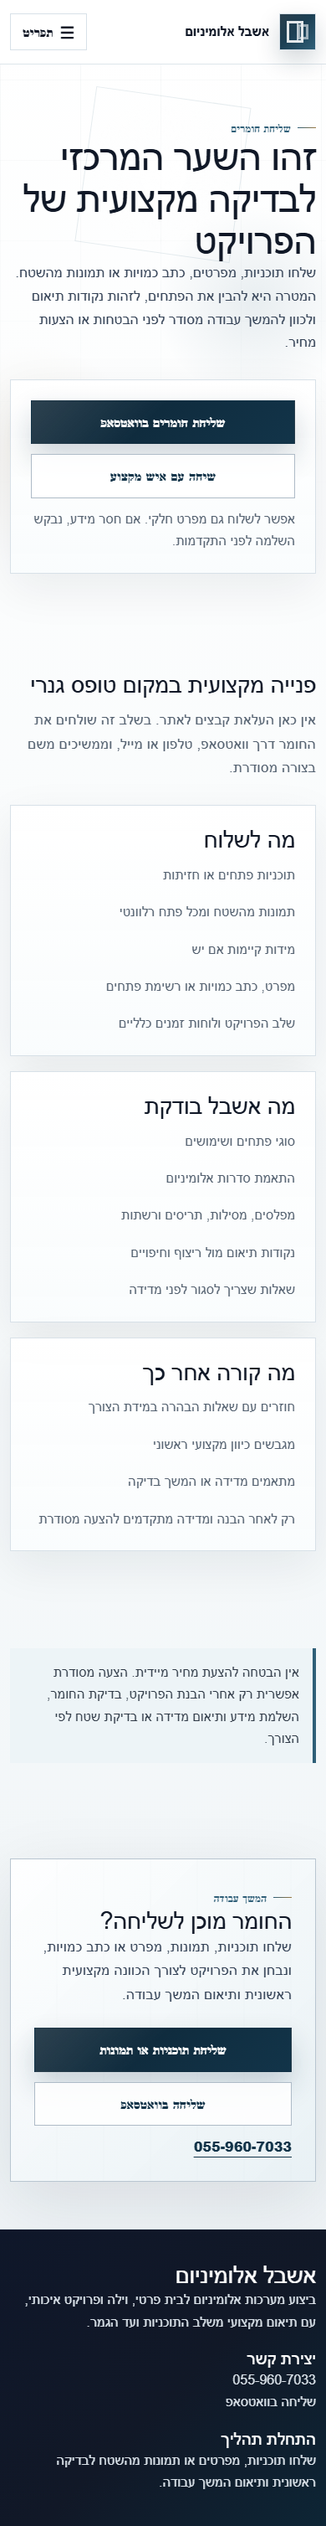
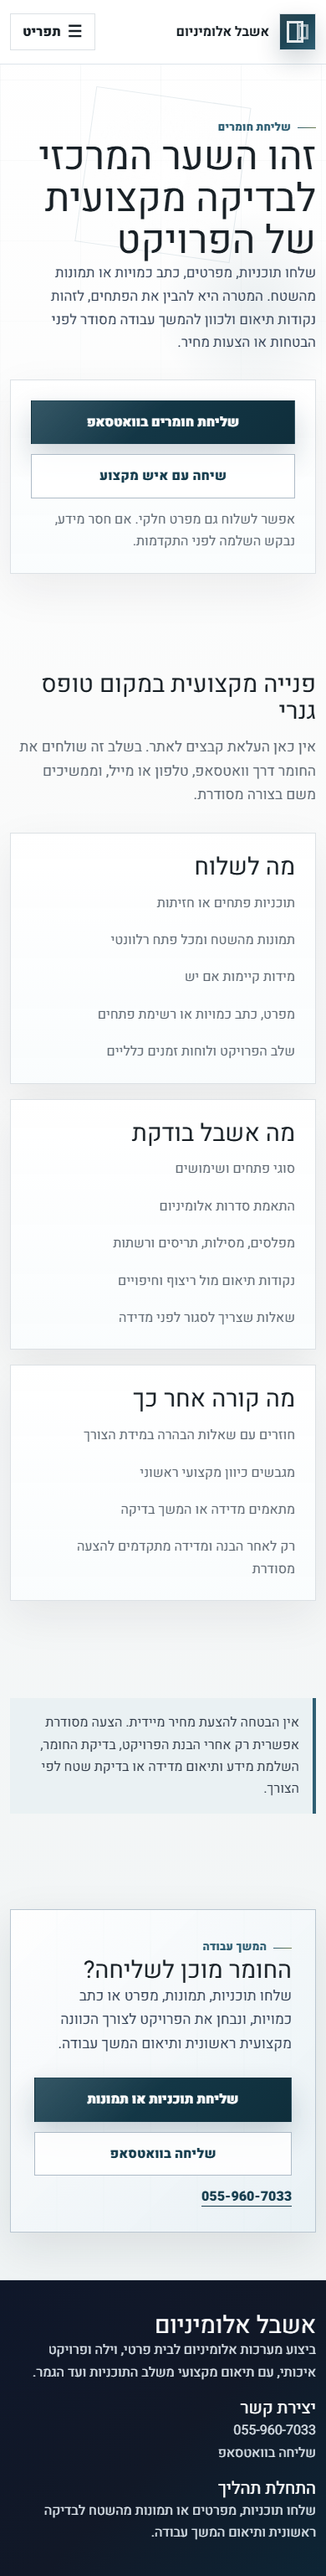
Polish product preview visuals

diff --git a/src/app/products/products.css b/src/app/products/products.css
@@ -4,16 +4,17 @@
 
 .products-page .section-shell:first-of-type {
   background:
-    radial-gradient(circle at 18% 12%, rgb(184 208 222 / 22%), transparent 28%),
-    linear-gradient(135deg, #101820, #17212b 48%, #0b1118);
-  color: white;
+    radial-gradient(circle at 18% 12%, rgb(47 95 115 / 12%), transparent 28%),
+    linear-gradient(135deg, #ffffff, #eef3f5 52%, #f7f8f8);
+  color: var(--ink);
+  border: 1px solid var(--line);
   padding: clamp(24px, 4vw, 44px);
-  box-shadow: 0 34px 90px rgb(13 37 53 / 16%);
+  box-shadow: var(--shadow);
 }
 
 .products-page .section-shell:first-of-type .section-header p,
 .products-page .section-shell:first-of-type .section-header .eyebrow {
-  color: #d8e3ea;
+  color: var(--muted);
 }
 
 .product-gallery {
@@ -27,9 +28,9 @@
   position: relative;
   overflow: hidden;
   isolation: isolate;
-  border: 1px solid rgb(232 237 241 / 28%);
-  background: #111827;
-  box-shadow: 0 28px 70px rgb(0 0 0 / 28%);
+  border: 1px solid #cbd5dc;
+  background: #eef3f5;
+  box-shadow: 0 18px 50px rgb(24 32 38 / 12%);
 }
 
 .product-panel::before {
@@ -38,10 +39,10 @@
   inset: 0;
   z-index: -3;
   background:
-    linear-gradient(180deg, rgb(7 12 18 / 8%), rgb(7 12 18 / 88%)),
-    radial-gradient(circle at 72% 18%, rgb(232 237 241 / 24%), transparent 20%),
-    repeating-linear-gradient(90deg, rgb(255 255 255 / 7%) 0 1px, transparent 1px 54px),
-    linear-gradient(135deg, #496b7c, #17212b 54%, #05080c);
+    linear-gradient(180deg, rgb(255 255 255 / 38%), rgb(15 46 59 / 46%)),
+    radial-gradient(circle at 72% 18%, rgb(255 255 255 / 34%), transparent 20%),
+    repeating-linear-gradient(90deg, rgb(24 32 38 / 8%) 0 1px, transparent 1px 54px),
+    linear-gradient(135deg, #f9fbfc, #aebbc4 46%, #2f5f73);
 }
 
 .product-panel::after {
@@ -49,25 +50,25 @@
   position: absolute;
   inset: 30px;
   z-index: -1;
-  border: 9px solid rgb(232 237 241 / 58%);
+  border: 9px solid rgb(255 255 255 / 72%);
   box-shadow:
-    inset 0 0 0 1px rgb(255 255 255 / 16%),
-    inset 0 0 80px rgb(184 208 222 / 18%);
+    inset 0 0 0 1px rgb(24 32 38 / 10%),
+    inset 0 0 80px rgb(255 255 255 / 24%);
 }
 
 .product-panel-2::before,
 .product-panel-5::before {
   background:
-    linear-gradient(180deg, rgb(7 12 18 / 10%), rgb(7 12 18 / 90%)),
-    repeating-linear-gradient(0deg, rgb(255 255 255 / 7%) 0 1px, transparent 1px 48px),
-    linear-gradient(135deg, #6f7f8d, #17384d 48%, #0b1118);
+    linear-gradient(180deg, rgb(255 255 255 / 28%), rgb(15 46 59 / 48%)),
+    repeating-linear-gradient(0deg, rgb(24 32 38 / 7%) 0 1px, transparent 1px 48px),
+    linear-gradient(135deg, #ffffff, #b8c0c7 45%, #173e4f);
 }
 
 .product-panel-3::before {
   background:
-    linear-gradient(180deg, rgb(7 12 18 / 10%), rgb(7 12 18 / 90%)),
-    radial-gradient(circle at 18% 18%, rgb(214 179 110 / 18%), transparent 26%),
-    linear-gradient(135deg, #8c7a58, #243241 45%, #0b1118);
+    linear-gradient(180deg, rgb(255 255 255 / 24%), rgb(38 50 56 / 52%)),
+    radial-gradient(circle at 18% 18%, rgb(111 127 82 / 18%), transparent 26%),
+    linear-gradient(135deg, #f7f8f8, #b8c0c7 45%, #263238);
 }
 
 .panel-visual {
@@ -83,8 +84,8 @@
 }
 
 .panel-rail {
-  background: linear-gradient(180deg, #f1f5f9, #9baab6);
-  box-shadow: 0 0 0 1px rgb(255 255 255 / 18%);
+  background: linear-gradient(180deg, #ffffff, #9baab6);
+  box-shadow: 0 0 0 1px rgb(24 32 38 / 14%);
 }
 
 .rail-a {
@@ -99,9 +100,9 @@
 
 .panel-glass {
   background:
-    linear-gradient(135deg, rgb(255 255 255 / 46%), rgb(184 208 222 / 18%)),
-    linear-gradient(180deg, transparent, rgb(255 255 255 / 10%));
-  border: 1px solid rgb(255 255 255 / 32%);
+    linear-gradient(135deg, rgb(255 255 255 / 62%), rgb(184 192 199 / 28%)),
+    linear-gradient(180deg, transparent, rgb(255 255 255 / 18%));
+  border: 1px solid rgb(255 255 255 / 54%);
   backdrop-filter: blur(1px);
 }
 
@@ -124,15 +125,15 @@
   display: grid;
   gap: 10px;
   color: white;
-  text-shadow: 0 2px 18px rgb(0 0 0 / 42%);
+  text-shadow: 0 2px 18px rgb(15 46 59 / 42%);
 }
 
 .panel-content p {
   width: fit-content;
-  color: #e8edf1;
+  color: #ffffff;
   font-weight: 950;
-  background: rgb(255 255 255 / 12%);
-  border: 1px solid rgb(255 255 255 / 18%);
+  background: rgb(15 46 59 / 50%);
+  border: 1px solid rgb(255 255 255 / 28%);
   padding: 7px 10px;
 }
 
@@ -181,18 +182,25 @@
   gap: 22px;
   align-items: center;
   margin-block: 24px 96px;
-  background: linear-gradient(135deg, #111827, #17384d);
+  border: 1px solid #b9c6d1;
+  background:
+    linear-gradient(135deg, rgb(255 255 255 / 88%), rgb(234 241 243 / 94%)),
+    repeating-linear-gradient(90deg, transparent 0 54px, rgb(47 95 115 / 8%) 54px 56px);
   color: white;
   padding: clamp(28px, 5vw, 54px);
 }
 
 .products-cta p:not(.eyebrow) {
   max-width: 760px;
-  color: #e8edf1;
+  color: #334155;
 }
 
 .products-cta .eyebrow {
-  color: #b8d0de;
+  color: var(--steel);
+}
+
+.products-cta h2 {
+  color: var(--ink);
 }
 
 @media (min-width: 760px) {

diff --git a/src/app/globals.css b/src/app/globals.css
@@ -1,21 +1,23 @@
 @import "tailwindcss";
+@import url("https://fonts.googleapis.com/css2?family=Heebo:wght@400;500;600;700;800;900&display=swap");
 
 :root {
   color-scheme: light;
-  --bg: #f4f7f8;
+  --bg: #f7f8f8;
   --paper: #ffffff;
-  --ink: #101827;
-  --muted: #546170;
-  --line: #d8e1e8;
-  --steel: #2f5f78;
-  --steel-dark: #123449;
-  --steel-deep: #0d2535;
-  --silver: #e8eef2;
-  --silver-2: #f7fafb;
-  --charcoal: #111827;
-  --bronze: #9a7a45;
-  --shadow: 0 26px 80px rgb(15 23 42 / 11%);
-  --soft-shadow: 0 18px 52px rgb(15 23 42 / 7%);
+  --ink: #182026;
+  --muted: #5e6872;
+  --line: #dce1e5;
+  --steel: #2f5f73;
+  --steel-dark: #173e4f;
+  --steel-deep: #0f2e3b;
+  --silver: #b8c0c7;
+  --silver-2: #f7f8f8;
+  --charcoal: #263238;
+  --accent: #6f7f52;
+  --soft-cta: #eaf1f3;
+  --shadow: 0 18px 50px rgb(24 32 38 / 10%);
+  --soft-shadow: 0 18px 50px rgb(24 32 38 / 7%);
 }
 
 * { box-sizing: border-box; }
@@ -25,11 +27,10 @@ html { scroll-behavior: smooth; }
 body {
   margin: 0;
   background:
-    radial-gradient(circle at 78% 12%, rgb(47 95 120 / 10%), transparent 30vw),
-    radial-gradient(circle at 10% 18%, rgb(154 122 69 / 8%), transparent 34vw),
-    linear-gradient(180deg, #ffffff 0%, #f7fafb 48%, #eef3f6 100%);
+    radial-gradient(circle at 78% 12%, rgb(47 95 115 / 9%), transparent 30vw),
+    linear-gradient(180deg, #ffffff 0%, var(--bg) 48%, #eef3f4 100%);
   color: var(--ink);
-  font-family: Arial, "Noto Sans Hebrew", sans-serif;
+  font-family: Heebo, Arial, "Noto Sans Hebrew", sans-serif;
   line-height: 1.65;
   text-align: right;
 }
@@ -162,7 +163,7 @@ button, input, textarea, select { font: inherit; }
   height: 2px;
   transform: scaleX(0);
   transform-origin: right;
-  background: linear-gradient(90deg, var(--steel), var(--bronze));
+  background: linear-gradient(90deg, var(--steel), var(--accent));
   transition: transform 180ms ease;
 }
 
@@ -217,16 +218,16 @@ h1 {
   max-width: 860px;
   font-size: clamp(2.35rem, 5.8vw, 4.65rem);
   line-height: 1.06;
-  letter-spacing: -0.025em;
+  letter-spacing: 0;
 }
 
 h2 {
   font-size: clamp(1.8rem, 3.35vw, 2.85rem);
   line-height: 1.14;
-  letter-spacing: -0.018em;
+  letter-spacing: 0;
 }
 
-h3 { font-size: clamp(1.28rem, 2vw, 1.72rem); line-height: 1.22; letter-spacing: -0.014em; }
+h3 { font-size: clamp(1.28rem, 2vw, 1.72rem); line-height: 1.22; letter-spacing: 0; }
 
 .lead {
   max-width: 735px;
@@ -249,7 +250,7 @@ h3 { font-size: clamp(1.28rem, 2vw, 1.72rem); line-height: 1.22; letter-spacing:
   content: "";
   width: 22px;
   height: 1px;
-  background: linear-gradient(90deg, var(--steel), var(--bronze));
+  background: linear-gradient(90deg, var(--steel), var(--accent));
 }
 
 .section-shell { padding-block: clamp(58px, 8vw, 104px); }
@@ -309,7 +310,7 @@ h3 { font-size: clamp(1.28rem, 2vw, 1.72rem); line-height: 1.22; letter-spacing:
   inset-block: 18px;
   inset-inline-start: 0;
   width: 3px;
-  background: linear-gradient(180deg, var(--steel), var(--bronze));
+  background: linear-gradient(180deg, var(--steel), var(--accent));
 }
 
 .btn {
@@ -330,7 +331,7 @@ h3 { font-size: clamp(1.28rem, 2vw, 1.72rem); line-height: 1.22; letter-spacing:
 .btn-primary {
   background:
     linear-gradient(135deg, rgb(255 255 255 / 13%), transparent 45%),
-    linear-gradient(135deg, var(--steel-deep), var(--steel-dark));
+    linear-gradient(135deg, var(--steel-dark), var(--steel-deep));
   color: white;
   box-shadow: 0 16px 34px rgb(18 52 73 / 20%);
 }
@@ -442,7 +443,7 @@ h3 { font-size: clamp(1.28rem, 2vw, 1.72rem); line-height: 1.22; letter-spacing:
   inset-block: 18px;
   inset-inline-start: 0;
   width: 3px;
-  background: linear-gradient(180deg, var(--steel), rgb(154 122 69 / 70%));
+  background: linear-gradient(180deg, var(--steel), var(--accent));
   opacity: 0;
   transition: opacity 160ms ease;
 }
@@ -535,7 +536,7 @@ h3 { font-size: clamp(1.28rem, 2vw, 1.72rem); line-height: 1.22; letter-spacing:
 
 .notice {
   border-inline-start: 4px solid var(--steel);
-  background: #edf4f7;
+  background: var(--soft-cta);
   padding: 16px;
   color: #2e3845;
 }

diff --git a/docs/ashbel-website-product-visual-spec.md b/docs/ashbel-website-product-visual-spec.md
@@ -1,0 +1,31 @@
+# Ashbel Website Product Visual Spec
+
+## Approved Reference Split
+
+- A.S. Aluminum direction: ordered catalog logic, clear product hierarchy, large visual product/category cards, clean aluminum browsing, architect and designer readability.
+- Gruper Aluminum direction: grounded Israeli working-company feeling, direct phone/WhatsApp/contact paths, relevance for private customers, contractors and project coordination.
+
+## Ashbel Visual Direction
+
+- Bright, premium and practical: white, light aluminum, graphite and steel blue.
+- Product visuals may use CSS-based aluminum/profile/glass compositions until real project photos are supplied.
+- Do not present CSS visuals as real projects or completed work.
+- Avoid dark luxury, fake proof, generic startup language and cluttered product cards.
+
+## Copy Rules
+
+- Hebrew only for public copy.
+- Voice: practical Israeli aluminum company, not abstract branding.
+- Use concrete language: חלונות, ויטרינות, הזזה, המראה הבלגי, המראה המודרני, הצללה, פרגולות, מעקות, תוכניות, תמונות, מידות, בתים פרטיים, אדריכלים, קבלנים ופרויקטים.
+- Do not invent clients, certifications, photos, awards, factory claims, map/address or partnerships.
+
+## Customer Journeys
+
+- Private homeowner: understand Ashbel performs aluminum openings for private homes and send plans/photos/measurements for review.
+- Renovation/villa customer: compare product categories by opening need, then send photos, measurements or BOQ.
+- Architect/designer: send plans, elevations, openings list and specification questions for coordination.
+- Contractor/supervisor/developer: send BOQ, field photos, dimensions and project stage for execution review.
+
+## Main Conversion Path
+
+Primary conversion is sending plans, photos, measurements, sketches, BOQ or a short project description for professional initial review through WhatsApp, phone or contact fallback.

diff --git a/docs/WEBSITE_COMPLETION_SOURCE_OF_TRUTH.md b/docs/WEBSITE_COMPLETION_SOURCE_OF_TRUTH.md
@@ -6,8 +6,10 @@ This document aligns the completion pass with `ASHBEL_WEBSITE_SPEC.md` and the e
 
 - Public Hebrew RTL marketing website for Ashbel Aluminum.
 - Premium, practical aluminum execution positioning for private homes, villas, renovations, architects, contractors, supervisors and developers.
+- Visual direction combines A.S. Aluminum catalog order with Gruper-style grounded Israeli company credibility, rewritten in Ashbel's own practical voice.
 - Main conversion path: sending plans, photos, specifications, dimensions or bill of quantities for initial professional review.
 - No fake dashboard, login, portal, CMS, automatic quote, fake clients, fake certifications, fake project photos or invented proof.
+- Current proof mode uses honest scenarios and CSS-based architectural aluminum visuals until real Ashbel project photos are available.
 
 ## Priority Pages
 
@@ -25,5 +27,7 @@ Run:
 - `npm run typecheck`
 - `npm run build`
 - `npm run visual:review`
+- `npm run visual:ai`
+- `npm run e2e`
 
 Inspect visual outputs, especially home, products, projects, upload, professionals and mobile menu.

diff --git a/public/visual-review/summary.md b/public/visual-review/summary.md
@@ -1,9 +1,9 @@
 # Visual Review Summary
 
 - Status: PASS
-- Commit: 8edc700b3080559c8746595951472455761321ac
+- Commit: e4ce064dd8a0dd217470953683f4752c747711d9
 - Run: local
-- Timestamp: 2026-05-04T06:52:42.448Z
+- Timestamp: 2026-05-04T08:03:12.044Z
 - Base URL: http://127.0.0.1:4173
 - Routes checked: 10
 - Viewports checked: desktop, mobile
